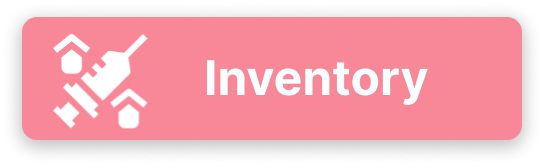
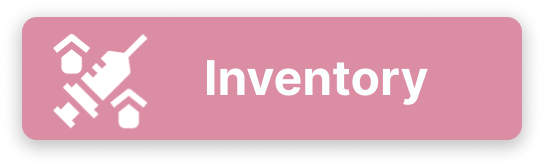
setup ui to full Screen

diff --git a/src/main/resources/lk/ijse/gdse/bbms/styleSheets/loginBtn.css b/src/main/resources/lk/ijse/gdse/bbms/styleSheets/loginBtn.css
@@ -1,25 +1,26 @@
 #bevel {
     -fx-background-color:
             linear-gradient(#C44569, #ffffff),
-            linear-gradient(#C44569 0%, #d9d9d9 20%, #C44569 100%),
+            linear-gradient(#C44569 0%, #d9d9d9 20%, #ffffff 100%),
             linear-gradient(#C44569 0%, #ffffff 50%);
     -fx-background-radius: 8,7,6;
     -fx-background-insets: 0,1,2;
     -fx-text-fill: black;
-    -fx-font-size: 14px;
+    -fx-font-weight: bold; /* Make font bold */
+    -fx-font-size: 17px;
     -fx-effect: dropshadow(three-pass-box, rgba(0,0,0,0.6), 5, 0.0, 0, 1);
 
     /* Adjusting width and height */
-    -fx-min-width: 80px;  /* Minimum width */
-    -fx-min-height:30px;  /* Minimum height */
-    -fx-pref-width: 100px; /* Preferred width */
+    -fx-min-width: 150px;  /* Minimum width */
+    -fx-min-height:40px;  /* Minimum height */
+    -fx-pref-width: 120px; /* Preferred width */
     -fx-pref-height:30px; /* Preferred height */
 }
 
 #bevel:hover {
     -fx-background-color:
             rgba(0,0,0,0.08),
-            linear-gradient(#C44569, #909090),
+            linear-gradient(#C44569, #C44569),
             linear-gradient(#C44569 0%, #C44569 50%, #C44569 51%, #C44569 100%);
     -fx-background-insets: 0 0 -1 0,0,1;
     -fx-background-radius: 5,5,4;

diff --git a/src/main/resources/lk/ijse/gdse/bbms/styleSheets/buttons.css b/src/main/resources/lk/ijse/gdse/bbms/styleSheets/buttons.css
@@ -1,8 +1,8 @@
 #bevel {
     -fx-background-color:
-            linear-gradient(#F53B57, #ffffff),
-            linear-gradient(#F53B57 0%, #d9d9d9 20%, #ffffff 100%),
-            linear-gradient(#F53B57 0%, #ffffff 50%);
+            linear-gradient(#C44569, #ffffff),
+            linear-gradient(#C44569 0%, #ffffff 20%, #ffffff 100%),
+            linear-gradient(#C44569 0%, #ffffff 50%);
     -fx-background-radius: 8,7,6;
     -fx-background-insets: 0,1,2;
     -fx-text-fill: black;
@@ -19,8 +19,8 @@
 #bevel:hover {
     -fx-background-color:
             rgba(0,0,0,0.08),
-            linear-gradient(#F53B57, #909090),
-            linear-gradient(#F53B57 0%, #F53B57 50%, #F53B57 51%, #F53B57 100%);
+            linear-gradient(#C44569, #ffffff),
+            linear-gradient(#C44569 0%, #C44569 50%, #C44569 51%, #C44569 100%);
     -fx-background-insets: 0 0 -1 0,0,1;
     -fx-background-radius: 5,5,4;
     -fx-padding: 3 30 3 30;

diff --git a/src/main/java/lk/ijse/gdse/bbms/controller/LoginPageViewController.java b/src/main/java/lk/ijse/gdse/bbms/controller/LoginPageViewController.java
@@ -3,16 +3,21 @@ import com.jfoenix.controls.JFXButton;
 import javafx.event.ActionEvent;
 import javafx.fxml.FXML;
 import javafx.fxml.FXMLLoader;
+import javafx.fxml.Initializable;
 import javafx.scene.Parent;
 import javafx.scene.Scene;
 import javafx.scene.control.Alert;
 import javafx.scene.control.PasswordField;
 import javafx.scene.control.TextField;
+import javafx.scene.layout.AnchorPane;
+import javafx.stage.Screen;
 import javafx.stage.Stage;
 
 import java.io.IOException;
+import java.net.URL;
+import java.util.ResourceBundle;
 
-public class LoginPageViewController {
+public class LoginPageViewController implements Initializable {
     @FXML
     private TextField userNameTxt;
 
@@ -21,6 +26,18 @@ public class LoginPageViewController {
 
     @FXML
     private JFXButton loginBtn;
+
+    @FXML
+    private AnchorPane rootPane;
+
+    @Override
+    public void initialize(URL url, ResourceBundle resourceBundle) {
+        double screenWidth = Screen.getPrimary().getVisualBounds().getWidth();
+        double screenHeight = Screen.getPrimary().getVisualBounds().getHeight();
+
+        rootPane.setPrefWidth(screenWidth);
+        rootPane.setPrefHeight(screenHeight);
+    }
 
     @FXML
     void navigateToHomePage(ActionEvent event) throws IOException {

diff --git a/src/main/java/lk/ijse/gdse/bbms/controller/HomePageViewController.java b/src/main/java/lk/ijse/gdse/bbms/controller/HomePageViewController.java
@@ -10,6 +10,7 @@ import javafx.scene.input.MouseEvent;
 import javafx.scene.layout.AnchorPane;
 import javafx.fxml.FXML;
 import javafx.scene.paint.Color;
+import javafx.stage.Screen;
 import javafx.util.Duration;
 
 
@@ -48,6 +49,9 @@ public class HomePageViewController implements Initializable {
 
     @FXML
     private AnchorPane homeAnchor;
+
+    @FXML
+    private AnchorPane rootPane;
 
     @FXML
     void navigateToCampaignPage(MouseEvent event) {
@@ -105,6 +109,11 @@ public class HomePageViewController implements Initializable {
     }
     @Override
     public void initialize(URL url, ResourceBundle resourceBundle) {
+        double screenWidth = Screen.getPrimary().getVisualBounds().getWidth();
+        double screenHeight = Screen.getPrimary().getVisualBounds().getHeight();
+
+        rootPane.setPrefWidth(screenWidth);
+        rootPane.setPrefHeight(screenHeight);
         navigateTo("/view/homeStartPage-view.fxml");
     }
 

diff --git a/src/main/java/lk/ijse/gdse/bbms/controller/TextPageController.java b/src/main/java/lk/ijse/gdse/bbms/controller/TextPageController.java
@@ -1,0 +1,24 @@
+package lk.ijse.gdse.bbms.controller;
+
+import javafx.fxml.FXML;
+import javafx.fxml.Initializable;
+import javafx.scene.layout.AnchorPane;
+import javafx.stage.Screen;
+
+import java.net.URL;
+import java.util.ResourceBundle;
+
+public class TextPageController implements Initializable {
+    @FXML
+    private AnchorPane rootPane;
+
+    @Override
+    public void initialize(URL location, ResourceBundle resources) {
+        double screenWidth = Screen.getPrimary().getVisualBounds().getWidth();
+        double screenHeight = Screen.getPrimary().getVisualBounds().getHeight();
+
+        rootPane.setPrefWidth(screenWidth);
+        rootPane.setPrefHeight(screenHeight);
+    }
+
+}

diff --git a/src/main/java/lk/ijse/gdse/bbms/AppInitializer.java b/src/main/java/lk/ijse/gdse/bbms/AppInitializer.java
@@ -13,7 +13,7 @@ public class AppInitializer extends Application {
     public void start(Stage stage) throws IOException {
         FXMLLoader fxmlLoader = new FXMLLoader(AppInitializer.class.getResource("/view/homePage-view.fxml"));
         Scene scene = new Scene(fxmlLoader.load());
-        stage.setTitle("Welcome to blood bank management system!");
+        //stage.setTitle("Welcome to blood bank management system!");
         stage.setResizable(false);  // Disable resizing
         stage.setScene(scene);
         stage.show();

diff --git a/src/main/java/lk/ijse/gdse/bbms/controller/DonorPageViewController.java b/src/main/java/lk/ijse/gdse/bbms/controller/DonorPageViewController.java
@@ -75,7 +75,6 @@ public class DonorPageViewController implements Initializable {
         }
 
         tblDonors.setOnMouseClicked(this::handleRowClick);
-      //  txtSearchBar.setOnAction(this::searchDataDonors);
     }
 
     private void setCellValueFactory() {
